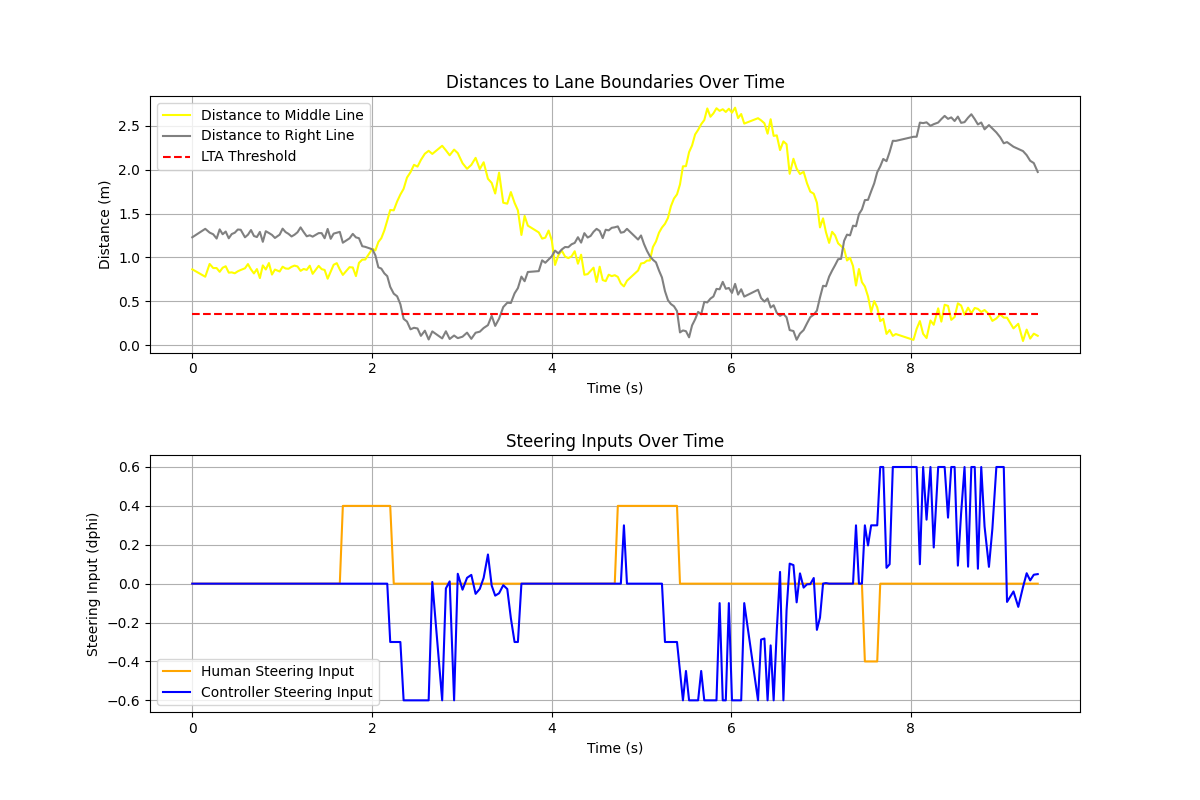
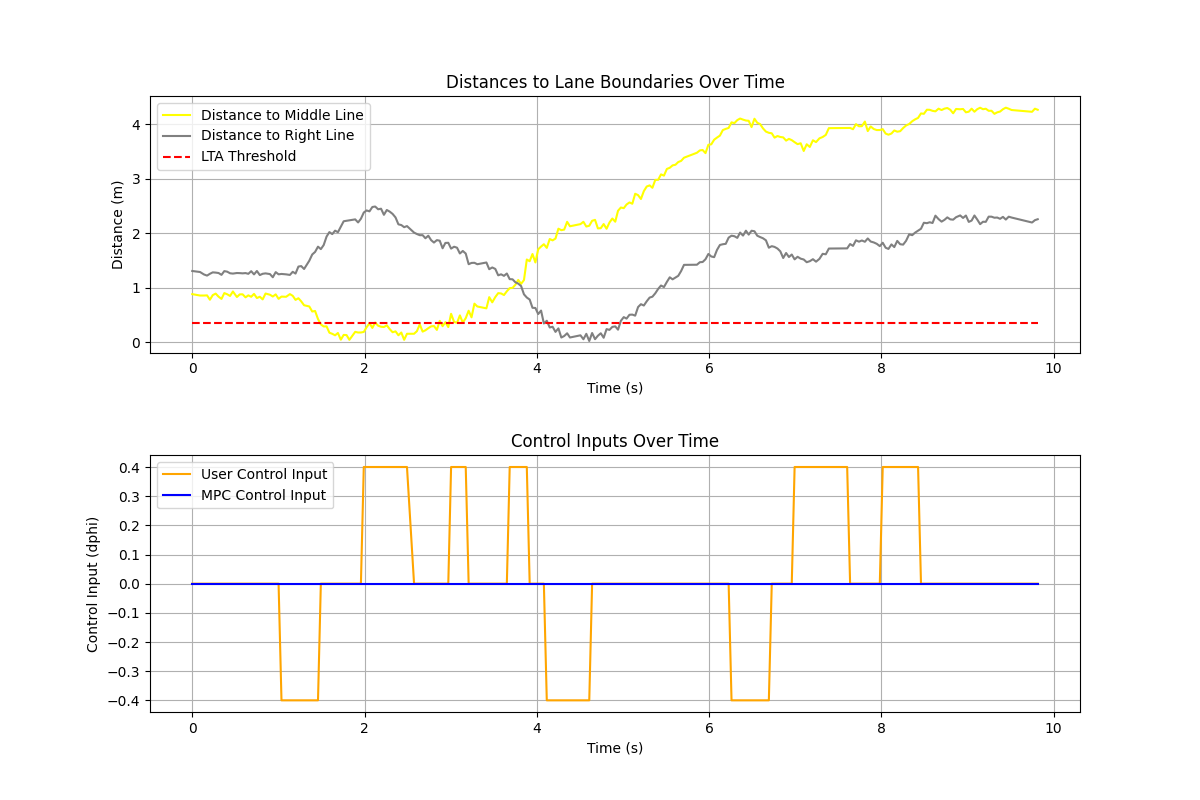
without LTA

diff --git a/Lab_2_delivery/MAIN.py b/Lab_2_delivery/MAIN.py
@@ -77,11 +77,11 @@ while running:
     
     LTA_left_detection_noisy, LTA_right_detection_noisy = sensor.LTA_sensor(scrolled_road["middle"], scrolled_road["right"])
     LTA_left_detection_processed, LTA_right_detection_processed, LTA_left_holes_indexes, LTA_right_holes_indexes = sensor.LTA_processing(car_position_screen, LTA_left_detection_noisy, LTA_right_detection_noisy)
-    sensor.draw_LTA_detections(config.SCREEN, LTA_left_detection_processed, LTA_right_detection_processed, LTA_left_holes_indexes, LTA_right_holes_indexes)
+    # sensor.draw_LTA_detections(config.SCREEN, LTA_left_detection_processed, LTA_right_detection_processed, LTA_left_holes_indexes, LTA_right_holes_indexes)
     
     # LTA threshold
     LTA_left_threshold, LTA_right_threshold = sensor.generate_LTA_threshold(LTA_left_detection_processed, LTA_right_detection_processed)
-    sensor.draw_LTA_threshold(config.SCREEN, LTA_left_threshold, LTA_right_threshold)
+    # sensor.draw_LTA_threshold(config.SCREEN, LTA_left_threshold, LTA_right_threshold)
 
     
     # ------- Get status of the car --------------------------------
@@ -98,9 +98,9 @@ while running:
 
     # GUIDANCE INPUT
     lta_dphi = 0
-    if recovering_flag:
-        lta_dphi = guidance.get_guidance_input(car_position_road, car_position_screen, theta, phi, dphi, LTA_left_detection_processed, LTA_right_detection_processed, status)
-        dphi += lta_dphi
+    # if recovering_flag:
+    #     lta_dphi = guidance.get_guidance_input(car_position_road, car_position_screen, theta, phi, dphi, LTA_left_detection_processed, LTA_right_detection_processed, status)
+    #     dphi += lta_dphi
 
     # ROBOT
     car_position_road, car_position_screen, theta, phi = robot.update_kinematics(config.V, dphi, car_position_road, car_position_screen, theta, phi)
@@ -118,14 +118,14 @@ while running:
     time_series.append(elapsed_time)
 
     # TEXT IN WINDOW
-    text_optimal_steering = config.FONT.render(f"Phi from MPC after max and min: {lta_dphi:.2f}", True, config.WHITE)  # Top-left corner 
-    text_status = config.FONT.render(f"recovery_status: {status}", True, config.WHITE)
-    text_phi = config.FONT.render(f"phi: {phi:.2f}", True, config.WHITE)
-    text_dphi = config.FONT.render(f"dphi: {dphi:.2f}", True, config.WHITE)
-    config.SCREEN.blit(text_phi, (10, 10))           # Top-left corner
-    config.SCREEN.blit(text_dphi, (10, 50))          # Below x 
-    config.SCREEN.blit(text_status, (10, 100))   
-    config.SCREEN.blit(text_optimal_steering, (10, 150))
+    # text_optimal_steering = config.FONT.render(f"Phi from MPC after max and min: {lta_dphi:.2f}", True, config.WHITE)  # Top-left corner 
+    # text_status = config.FONT.render(f"Boundary status: {status}", True, config.WHITE)
+    # text_phi = config.FONT.render(f"phi: {phi:.2f}", True, config.WHITE)
+    # text_dphi = config.FONT.render(f"dphi: {dphi:.2f}", True, config.WHITE)
+    # config.SCREEN.blit(text_phi, (10, 10))           # Top-left corner
+    # config.SCREEN.blit(text_dphi, (10, 50))          # Below x 
+    # config.SCREEN.blit(text_status, (10, 100))   
+    # config.SCREEN.blit(text_optimal_steering, (10, 150))
     
 
     # -------------------------------------------------------------------

diff --git a/Lab_2_delivery/control.py b/Lab_2_delivery/control.py
@@ -7,15 +7,15 @@ def controller(keys, phi, recovering_flag, status):
     dphi_output = 0
     dphi_damped = 0
 
-    if keys[pygame.K_LEFT] and status not in ["crossing_LTA_threshold_left"]:
+    if keys[pygame.K_LEFT]: #and status not in ["crossing_LTA_threshold_left"]:
         dphi_human = -config.DELTA_DPHI
         dphi_output = dphi_human
 
-    elif keys[pygame.K_RIGHT] and status not in ["crossing_LTA_threshold_right"]:
+    elif keys[pygame.K_RIGHT]: #and status not in ["crossing_LTA_threshold_right"]:
         dphi_human = config.DELTA_DPHI
         dphi_output = dphi_human
 
-    elif not recovering_flag:
+    else: #elif not recovering_flag:
         if abs(phi) < 1e-2: # Smoothly reduce phi to 0 (simulate wheel returning to neutral)
             phi = 0
             dphi_damped = 0
@@ -25,7 +25,5 @@ def controller(keys, phi, recovering_flag, status):
             dphi_damped *= config.DAMPING_FACTOR # Apply damping to slow down convergence and prevent oscillations
             dphi_output = dphi_damped
 
-            text_dphi_damp = config.FONT.render(f"dphi after damping: {dphi_damped:.2f}", True, config.WHITE)
-            config.SCREEN.blit(text_dphi_damp, (10, 200))  
 
     return phi, dphi_output, dphi_human

diff --git a/Lab_2_delivery/documentation.py b/Lab_2_delivery/documentation.py
@@ -191,11 +191,11 @@ def plot_and_save_distances_with_steering(
     axs[0].grid()
     
     # Second subplot: Steering inputs
-    axs[1].plot(time_series, human_steering_inputs, label="Human Steering Input", color="orange")
-    axs[1].plot(time_series, controller_steering_inputs, label="Controller Steering Input", color="blue")
+    axs[1].plot(time_series, human_steering_inputs, label="User Control Input", color="orange")
+    axs[1].plot(time_series, controller_steering_inputs, label="MPC Control Input", color="blue")
     axs[1].set_xlabel("Time (s)")
-    axs[1].set_ylabel("Steering Input (dphi)")
-    axs[1].set_title("Steering Inputs Over Time")
+    axs[1].set_ylabel("Control Input (dphi)")
+    axs[1].set_title("Control Inputs Over Time")
     axs[1].legend()
     axs[1].grid()
     

diff --git a/Lab_2_delivery/navigation.py b/Lab_2_delivery/navigation.py
@@ -81,8 +81,7 @@ def recovery_trajectory_spline(position, car_y_screen, theta_start, phi_start, d
     v_y = robot.get_velocity_y_direction(V, theta_start, phi_start)
     
     # Fit a cubic spline with increasing y values
-    # boundary = ((1, np.tan(optimal_thetas[-1])), (1, np.tan(theta_start))) # Curves
-    boundary = 'natural' # Straight line
+    boundary = 'natural' 
     spline = CubicSpline(y_sorted, x_sorted, bc_type= boundary)
 
     # # Generate evaluation points with reversed y-direction
